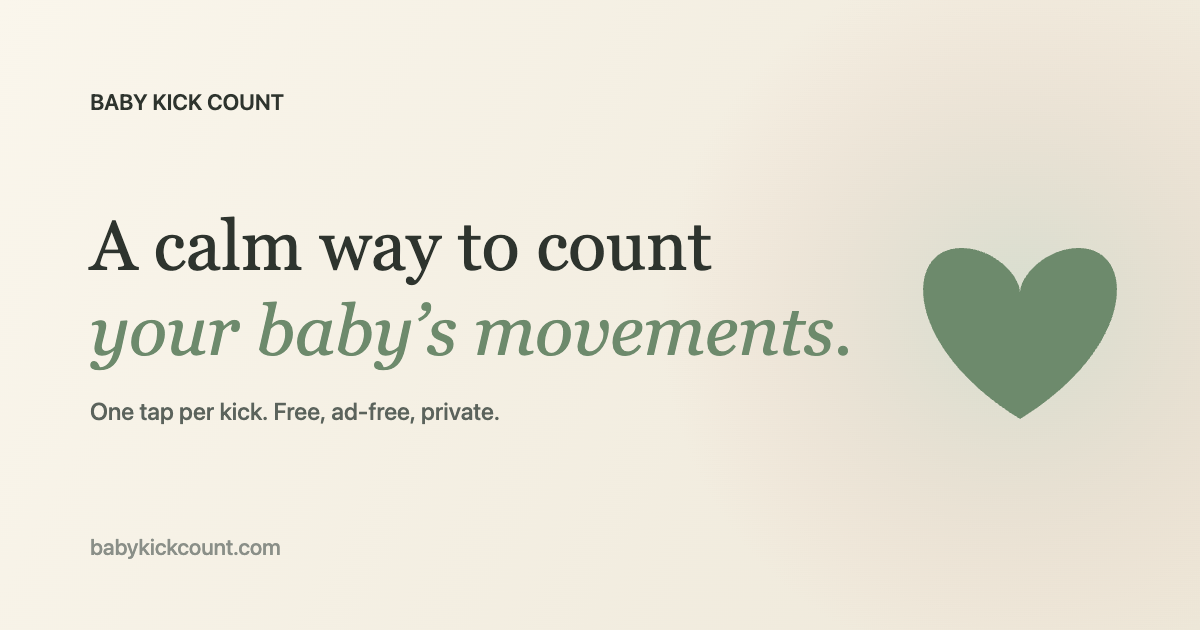
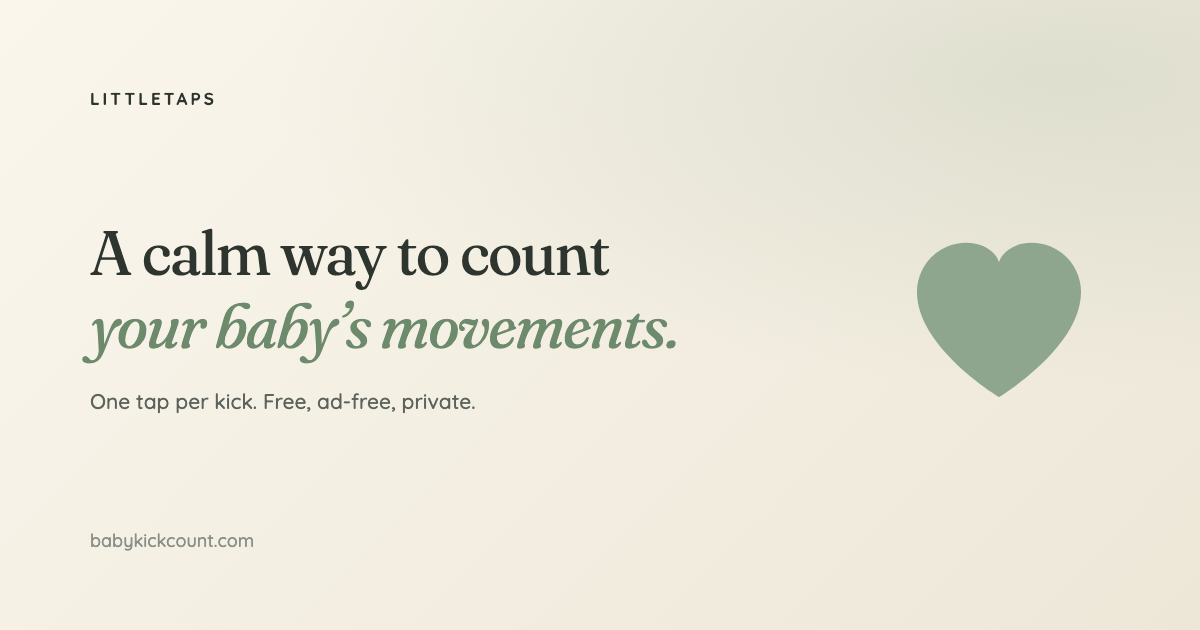
Fix stale website branding and mockup copy
The Open Graph card still read "BABY KICK COUNT" with no mention of
Littletaps, contradicting the page's own og:site_name and og:title. That
image is what renders on every shared link, so it was the most public
piece of stale branding left. Rebuilt from the site's own design tokens
so it matches the rest of the page.

The card source is HTML plus a headless-Chrome render script rather than
a binary someone has to open a design tool to edit — the text went stale
once and will again. It lives outside web/ because that directory is
deployed verbatim and vercel.json's cleanUrls would otherwise publish the
source as a live page at /images/og-cover.

The hero phone mockups are hand-built HTML/CSS, not screenshots, and had
drifted from the app. The counter showed "14:32 elapsed" when the app
counts *down* against a two-hour window and labels it "Time remaining" —
that advertised behaviour the app does not have. Also corrected the tap
hint and the calendar legend to the app's actual wording.

Left the tinted calendar day cells alone. The app draws dots under the
day number instead, but that is a stylisation in a tilted, half-occluded
mockup rather than a claim about a feature.

Claude-Session: https://claude.ai/code/session_01D66jBUHSvwLfAhT31QTUAs

diff --git a/scripts/og-cover/og-cover.html b/scripts/og-cover/og-cover.html
@@ -1,0 +1,99 @@
+<!doctype html>
+<!--
+  Source for web/images/og-cover.png (1200x630), the social share card.
+
+  Render it with:
+    scripts/og-cover/render.sh
+
+  Kept in the repo because the card is text — the app name has already gone
+  stale once — and regenerating it should not need a design tool. It lives
+  outside web/ so it is not deployed as a page.
+-->
+<html lang="en">
+<head>
+<meta charset="utf-8" />
+<link rel="preconnect" href="https://fonts.googleapis.com" />
+<link rel="preconnect" href="https://fonts.gstatic.com" crossorigin />
+<link href="https://fonts.googleapis.com/css2?family=Quicksand:wght@400;500;600;700&family=Fraunces:ital,opsz,wght@0,9..144,300;0,9..144,400;1,9..144,300;1,9..144,400&display=swap" rel="stylesheet" />
+<style>
+  /* Same tokens as web/styles.css so the card matches the site. */
+  :root{
+    --cream-soft: #faf6ec;
+    --cream-deep: #ede7d8;
+    --sage:       #8fa68e;
+    --sage-deep:  #6d8a6c;
+    --ink:        #2e342e;
+    --ink-soft:   #5b635c;
+    --ink-mute:   #8a8f88;
+    --font-sans:    "Quicksand", ui-rounded, system-ui, -apple-system, sans-serif;
+    --font-display: "Fraunces", ui-serif, Georgia, serif;
+  }
+  *{ margin:0; padding:0; box-sizing:border-box; }
+  body{ width:1200px; height:630px; overflow:hidden; }
+
+  .card{
+    position:relative;
+    width:1200px; height:630px;
+    background:
+      radial-gradient(120% 90% at 88% 12%, rgba(143,166,142,.20) 0%, rgba(143,166,142,0) 55%),
+      linear-gradient(135deg, var(--cream-soft) 0%, var(--cream-deep) 100%);
+    font-family: var(--font-sans);
+    display:flex; align-items:center;
+  }
+
+  /* Wide enough that "your baby's movements." stays on one line, as in the
+     original card. Narrower and it wraps to three lines and crowds the sub. */
+  .content{ padding-left: 90px; width: 900px; }
+
+  .eyebrow{
+    font-size: 17px; font-weight: 700; letter-spacing: .18em;
+    text-transform: uppercase; color: var(--ink);
+    position:absolute; top: 88px; left: 90px;
+  }
+
+  .headline{
+    font-family: var(--font-display);
+    font-weight: 400; font-size: 62px; line-height: 1.18;
+    letter-spacing: -.02em; color: var(--ink);
+  }
+  .headline em{
+    display:block; font-style: italic; color: var(--sage-deep);
+  }
+
+  .sub{
+    margin-top: 26px;
+    font-size: 21px; font-weight: 500; color: var(--ink-soft);
+  }
+
+  .domain{
+    position:absolute; bottom: 78px; left: 90px;
+    font-size: 18px; font-weight: 500; color: var(--ink-mute);
+  }
+
+  .heart{
+    position:absolute; right: 96px; top: 50%;
+    transform: translateY(-50%);
+    color: var(--sage);
+  }
+</style>
+</head>
+<body>
+  <div class="card">
+    <p class="eyebrow">Littletaps</p>
+
+    <div class="content">
+      <h1 class="headline">
+        A calm way to count
+        <em>your baby&rsquo;s movements.</em>
+      </h1>
+      <p class="sub">One tap per kick. Free, ad-free, private.</p>
+    </div>
+
+    <p class="domain">babykickcount.com</p>
+
+    <svg class="heart" viewBox="0 0 32 32" width="210" height="210" aria-hidden="true">
+      <path d="M16 28.5C16 28.5 3.5 21 3.5 12.5C3.5 8.36 6.86 5 11 5C13.4 5 15.4 6.13 16 7.95C16.6 6.13 18.6 5 21 5C25.14 5 28.5 8.36 28.5 12.5C28.5 21 16 28.5 16 28.5Z" fill="currentColor"/>
+    </svg>
+  </div>
+</body>
+</html>

diff --git a/web/index.html b/web/index.html
@@ -117,14 +117,14 @@
           <!-- placeholder for /images/screen-counter.png -->
           <div class="ph-status">9:41</div>
           <div class="ph-counter">
-            <p class="ph-label">Today</p>
+            <p class="ph-label">Littletaps</p>
             <p class="ph-count"><span>7</span><small>/10</small></p>
-            <p class="ph-time">14:32 elapsed</p>
+            <p class="ph-time">1:47:28 remaining</p>
             <div class="ph-heart" aria-hidden="true">
               <span class="ph-pulse"></span>
               <svg viewBox="0 0 32 32" width="120" height="120"><path d="M16 28.5C16 28.5 3.5 21 3.5 12.5C3.5 8.36 6.86 5 11 5C13.4 5 15.4 6.13 16 7.95C16.6 6.13 18.6 5 21 5C25.14 5 28.5 8.36 28.5 12.5C28.5 21 16 28.5 16 28.5Z" fill="currentColor"/></svg>
             </div>
-            <p class="ph-hint">tap when you feel a kick</p>
+            <p class="ph-hint">when you feel movement</p>
           </div>
         </div>
       </div>
@@ -135,7 +135,7 @@
         <div class="phone-screen" data-shot="calendar">
           <div class="ph-status">9:41</div>
           <div class="ph-cal">
-            <p class="ph-label">November</p>
+            <p class="ph-label">November 2026</p>
             <div class="ph-cal-grid">
               <span></span><span></span><span></span><span class="d g">1</span><span class="d g">2</span><span class="d o">3</span><span class="d g">4</span>
               <span class="d g">5</span><span class="d g">6</span><span class="d g">7</span><span class="d g">8</span><span class="d p">9</span><span class="d g">10</span><span class="d g">11</span>
@@ -143,9 +143,9 @@
               <span class="d g">19</span><span class="d g">20</span><span class="d g">21</span><span class="d today">22</span><span class="d">23</span><span class="d">24</span><span class="d">25</span>
             </div>
             <div class="ph-legend">
-              <span><i class="dot g"></i>Completed</span>
+              <span><i class="dot g"></i>Complete</span>
               <span><i class="dot o"></i>Timeout</span>
-              <span><i class="dot p"></i>Ended early</span>
+              <span><i class="dot p"></i>Ended</span>
             </div>
           </div>
         </div>

diff --git a/TODO.md b/TODO.md
@@ -92,6 +92,8 @@ pregnancy,fetal movement,third trimester,OB,midwife,prenatal,maternity,timer,wel
 - [x] Replace beta invite UX with a real TestFlight public link, mailing-list implementation, or simple `mailto:` flow.
 - [x] Update sitemap/canonical URLs if `/privacy` and `/terms` are the preferred clean URLs.
 - [x] Add `/support` and use it for App Store Connect Support URL.
+- [x] Regenerate `web/images/og-cover.png`. It read `BABY KICK COUNT` with no mention of Littletaps, contradicting the page's own `og:site_name`, on every shared link. Source is now `scripts/og-cover/og-cover.html` plus `render.sh` (headless Chrome), kept outside `web/` so `cleanUrls` does not publish it as a page.
+- [x] Align the hero phone mockups in `web/index.html` with the shipped app. They are hand-built HTML/CSS, not screenshots, and had drifted: the counter claimed `14:32 elapsed` when the app counts *down* (`Time remaining`), the hint read `tap when you feel a kick` vs the app's `when you feel movement`, and the calendar legend said `Completed / Ended early` vs the app's `Complete / Ended`.
 - [ ] After App Store approval, replace TestFlight CTAs with App Store download CTAs.
 
 ## Follow-Up Review (July 28, 2026)
